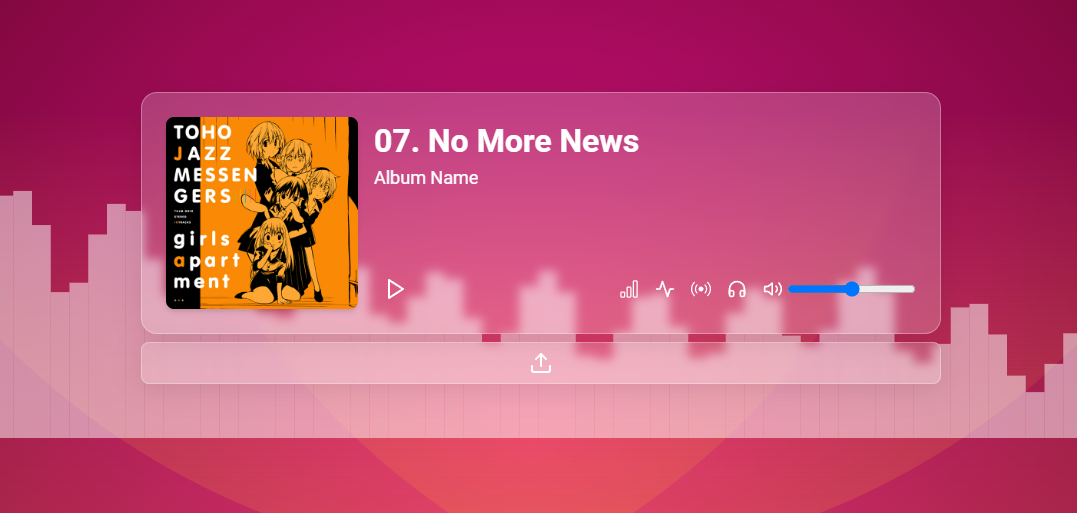
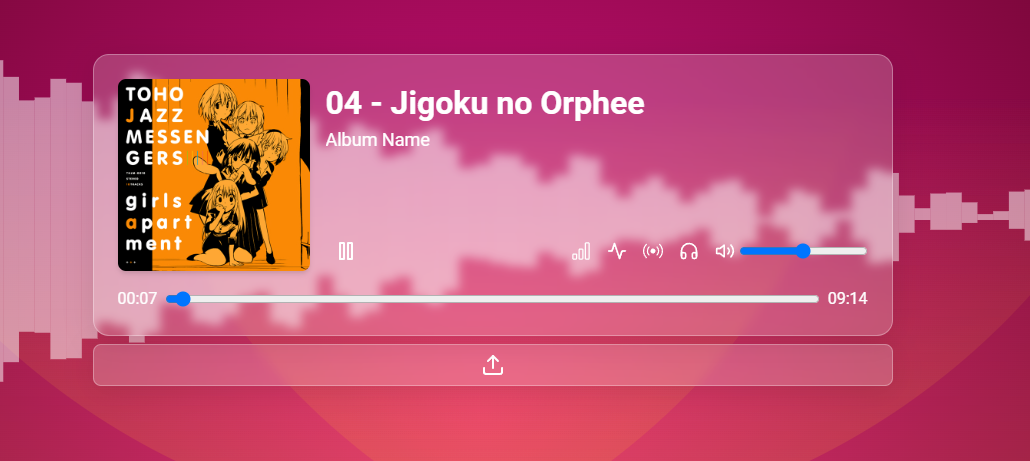
feat: :sparkles: add progress bar & fix stereo pan node

diff --git a/src/App.tsx b/src/App.tsx
@@ -9,6 +9,8 @@ function App() {
   const [fileName, setFileName] = useState("");
   const [isAudioPlaying, setIsAudioPlaying] = useState(false);
   const [selectedVisualiser, setSelectedVisualiser] = useState<string>("bar");
+  const [duration, setDuration] = useState(0);
+  const [isAudioEnded, setIsAudioEnded] = useState(false);
   const source = useRef<MediaElementAudioSourceNode | null>(null);
   const audioContext = useRef<AudioContext | null>(null);
   const analyserNodeL = useRef<AnalyserNode | null>(null);
@@ -22,6 +24,7 @@ function App() {
   const splitterNode = useRef<ChannelSplitterNode | null>(null);
   const mergerNode = useRef<ChannelMergerNode | null>(null);
   const audioEl = useRef<HTMLAudioElement>(null);
+  const animationId = useRef<number | null>(null);
 
   useEffect(() => {
     if (audioContext.current === null) {
@@ -32,7 +35,9 @@ function App() {
       analyserNodeR.current = new AnalyserNode(audioContext.current, {
         fftSize: 2048,
       });
-      stereoNode.current = new StereoPannerNode(audioContext.current);
+      stereoNode.current = new StereoPannerNode(audioContext.current, {
+        pan: 0,
+      });
       gainNode.current = new GainNode(audioContext.current, {
         gain: 0.25,
       });
@@ -62,6 +67,15 @@ function App() {
     }
   }, []);
 
+  useEffect(() => {
+    console.log("mantap");
+
+    setIsAudioEnded((prevState) => {
+      if (prevState) return !prevState;
+      return prevState;
+    });
+  }, [isAudioEnded]);
+
   function handleVisualiserChange(e: ChangeEvent<HTMLInputElement>) {
     setSelectedVisualiser(e.target.value);
   }
@@ -87,18 +101,19 @@ function App() {
         splitterNode.current &&
         mergerNode.current
       ) {
-        source.current.connect(stereoNode.current);
+        // source.current.connect(stereoNode.current);
         source.current.connect(distortionNode.current);
         source.current.connect(bassNode.current);
         source.current.connect(midNode.current);
         source.current.connect(trebleNode.current);
 
-        stereoNode.current.connect(gainNode.current);
+        // stereoNode.current.connect(gainNode.current);
         distortionNode.current.connect(gainNode.current);
         bassNode.current.connect(gainNode.current);
         midNode.current.connect(gainNode.current);
         trebleNode.current.connect(gainNode.current);
-        gainNode.current.connect(splitterNode.current);
+        gainNode.current.connect(stereoNode.current);
+        stereoNode.current.connect(splitterNode.current);
         splitterNode.current.connect(analyserNodeL.current, 0);
         splitterNode.current.connect(analyserNodeR.current, 1);
 
@@ -115,7 +130,6 @@ function App() {
     if (audioContext.current.state === "suspended") {
       audioContext.current.resume();
     }
-
     if (isAudioPlaying) {
       audioEl.current?.pause();
     } else {
@@ -125,6 +139,10 @@ function App() {
   }
 
   function handleAudioEnded() {
+    if (animationId.current) {
+      window.cancelAnimationFrame(animationId.current);
+    }
+    setIsAudioEnded(true);
     setIsAudioPlaying(false);
   }
 
@@ -144,6 +162,11 @@ function App() {
     setAudioSrc(url);
   }
 
+  function handleLoadedMetaData() {
+    if (audioEl.current === null) return;
+    setDuration(audioEl.current.duration);
+  }
+
   return (
     <main className={styles.main}>
       {audioSrc ? (
@@ -153,6 +176,7 @@ function App() {
             ref={audioEl}
             src={audioSrc}
             onLoadedData={handleLoadedData}
+            onLoadedMetadata={handleLoadedMetaData}
           />
           <Visualiser
             visualiserType={selectedVisualiser}
@@ -174,6 +198,10 @@ function App() {
             gainNode={gainNode.current}
             selectedVisualiser={selectedVisualiser}
             handleVisualiserChange={handleVisualiserChange}
+            animationId={animationId}
+            audioEl={audioEl.current}
+            duration={duration}
+            isAudioEnded={isAudioEnded}
           />
           <label className={`${styles.upload} ${styles.full}`}>
             <input type="file" onChange={handleFileUpload} accept="audio/*" />

diff --git a/src/components/ProgressBar/ProgressBar.tsx b/src/components/ProgressBar/ProgressBar.tsx
@@ -1,0 +1,90 @@
+import {
+  useRef,
+  MutableRefObject,
+  useEffect,
+  useCallback,
+  useState,
+  ChangeEvent,
+} from "react";
+import styles from "./ProgressBar.module.css";
+import { formatProgress } from "../../utils/number.utils";
+
+interface IProgressBar {
+  animationId: MutableRefObject<number | null>;
+  audioEl: HTMLAudioElement | null;
+  duration: number;
+  isAudioPlaying: boolean;
+  isAudioEnded: boolean;
+}
+
+function ProgressBar({
+  animationId,
+  audioEl,
+  duration,
+  isAudioPlaying,
+  isAudioEnded,
+}: IProgressBar) {
+  const [progress, setProgress] = useState(0);
+  const progressEl = useRef<HTMLInputElement | null>(null);
+  const intervalId = useRef<number | undefined>(undefined);
+
+  const render = useCallback(() => {
+    if (progressEl.current === null) return;
+    if (audioEl === null) return;
+    progressEl.current.value = audioEl.currentTime.toString();
+
+    animationId.current = window.requestAnimationFrame(render);
+  }, [animationId, audioEl]);
+
+  useEffect(() => {
+    if (isAudioEnded && progressEl.current) {
+      clearInterval(intervalId.current);
+      progressEl.current.value = String(0);
+      setProgress(0);
+    }
+  }, [isAudioEnded]);
+
+  useEffect(() => {
+    if (isAudioPlaying) {
+      render();
+      intervalId.current = setInterval(() => {
+        if (audioEl) {
+          setProgress(audioEl.currentTime);
+        }
+      }, 1000);
+    } else {
+      if (animationId.current) {
+        window.cancelAnimationFrame(animationId.current);
+      }
+    }
+
+    return () => {
+      if (animationId.current) {
+        window.cancelAnimationFrame(animationId.current);
+      }
+      clearInterval(intervalId.current);
+    };
+  }, [render, isAudioPlaying, audioEl, animationId]);
+
+  function handleChange(e: ChangeEvent<HTMLInputElement>) {
+    if (audioEl === null) return;
+    audioEl.currentTime = +e.target.value;
+  }
+
+  return (
+    <div className={styles.progressContainer}>
+      <span>{formatProgress(progress)}</span>
+      <input
+        ref={progressEl}
+        type="range"
+        min={0}
+        max={duration}
+        onChange={handleChange}
+        className={styles.progress}
+      />
+      <span>{formatProgress(duration)}</span>
+    </div>
+  );
+}
+
+export default ProgressBar;

diff --git a/src/components/AudioPlayer/AudioPlayer.tsx b/src/components/AudioPlayer/AudioPlayer.tsx
@@ -1,4 +1,4 @@
-import { ChangeEvent } from "react";
+import { ChangeEvent, MutableRefObject } from "react";
 import styles from "./AudioPlayer.module.css";
 import { ReactComponent as PlayIcon } from "../../assets/play.svg";
 import { ReactComponent as PauseIcon } from "../../assets/pause.svg";
@@ -7,6 +7,7 @@ import PannerMenu from "../Menu/PannerMenu/PannerMenu";
 import DistortionMenu from "../Menu/DistortionMenu/DistortionMenu";
 import FrequencyMenu from "../Menu/FrequencyMenu/FrequencyMenu";
 import VisualiserMenu from "../Menu/VisualizerMenu/VisualiserMenu";
+import ProgressBar from "../ProgressBar/ProgressBar";
 
 interface IAudioPlayer {
   fileName: string;
@@ -21,6 +22,10 @@ interface IAudioPlayer {
   gainNode: GainNode | null;
   selectedVisualiser: string;
   handleVisualiserChange: (e: ChangeEvent<HTMLInputElement>) => void;
+  animationId: MutableRefObject<number | null>;
+  audioEl: HTMLAudioElement | null;
+  duration: number;
+  isAudioEnded: boolean;
 }
 
 function AudioPlayer({
@@ -36,6 +41,10 @@ function AudioPlayer({
   gainNode,
   selectedVisualiser,
   handleVisualiserChange,
+  animationId,
+  audioEl,
+  duration,
+  isAudioEnded,
 }: IAudioPlayer) {
   return (
     <div className={styles.player}>
@@ -76,6 +85,13 @@ function AudioPlayer({
           <VolumeSlider audioContext={audioContext} gainNode={gainNode} />
         </div>
       </div>
+      <ProgressBar
+        isAudioEnded={isAudioEnded}
+        isAudioPlaying={isAudioPlaying}
+        duration={duration}
+        animationId={animationId}
+        audioEl={audioEl}
+      />
     </div>
   );
 }

diff --git a/src/components/AudioPlayer/AudioPlayer.module.css b/src/components/AudioPlayer/AudioPlayer.module.css
@@ -5,13 +5,14 @@
     padding: 1.5rem;
     border-radius: 1rem;
     display: grid;
-    grid-template-rows: auto) 1fr auto;
+    grid-template-rows: auto 1fr auto auto;
     grid-template-columns: 192px minmax(0, 1fr);
 
     grid-template-areas:
         "cover info"
         "cover ."
-        "cover controls";
+        "cover controls"
+        "progress progress";
 
     gap: 1rem;
     /* From https://css.glass */

diff --git a/src/utils/number.utils.ts b/src/utils/number.utils.ts
@@ -1,0 +1,10 @@
+function formatProgress(timeSeconds: number) {
+  const minute = Math.floor(timeSeconds / 60);
+  const minuteString = `${minute < 10 ? "0" : ""}${minute}`;
+  const second = Math.floor(timeSeconds % 60);
+  const secondString = `${second < 10 ? "0" : ""}${second}`;
+
+  return `${minuteString}:${secondString}`;
+}
+
+export { formatProgress };

diff --git a/src/components/ProgressBar/ProgressBar.module.css b/src/components/ProgressBar/ProgressBar.module.css
@@ -1,0 +1,11 @@
+.progressContainer {
+    grid-area: progress;
+    display: flex;
+    align-items: center;
+    gap: 0.5rem;
+    color: #FFFFFF;
+}
+
+.progress {
+    width: 100%;
+}
